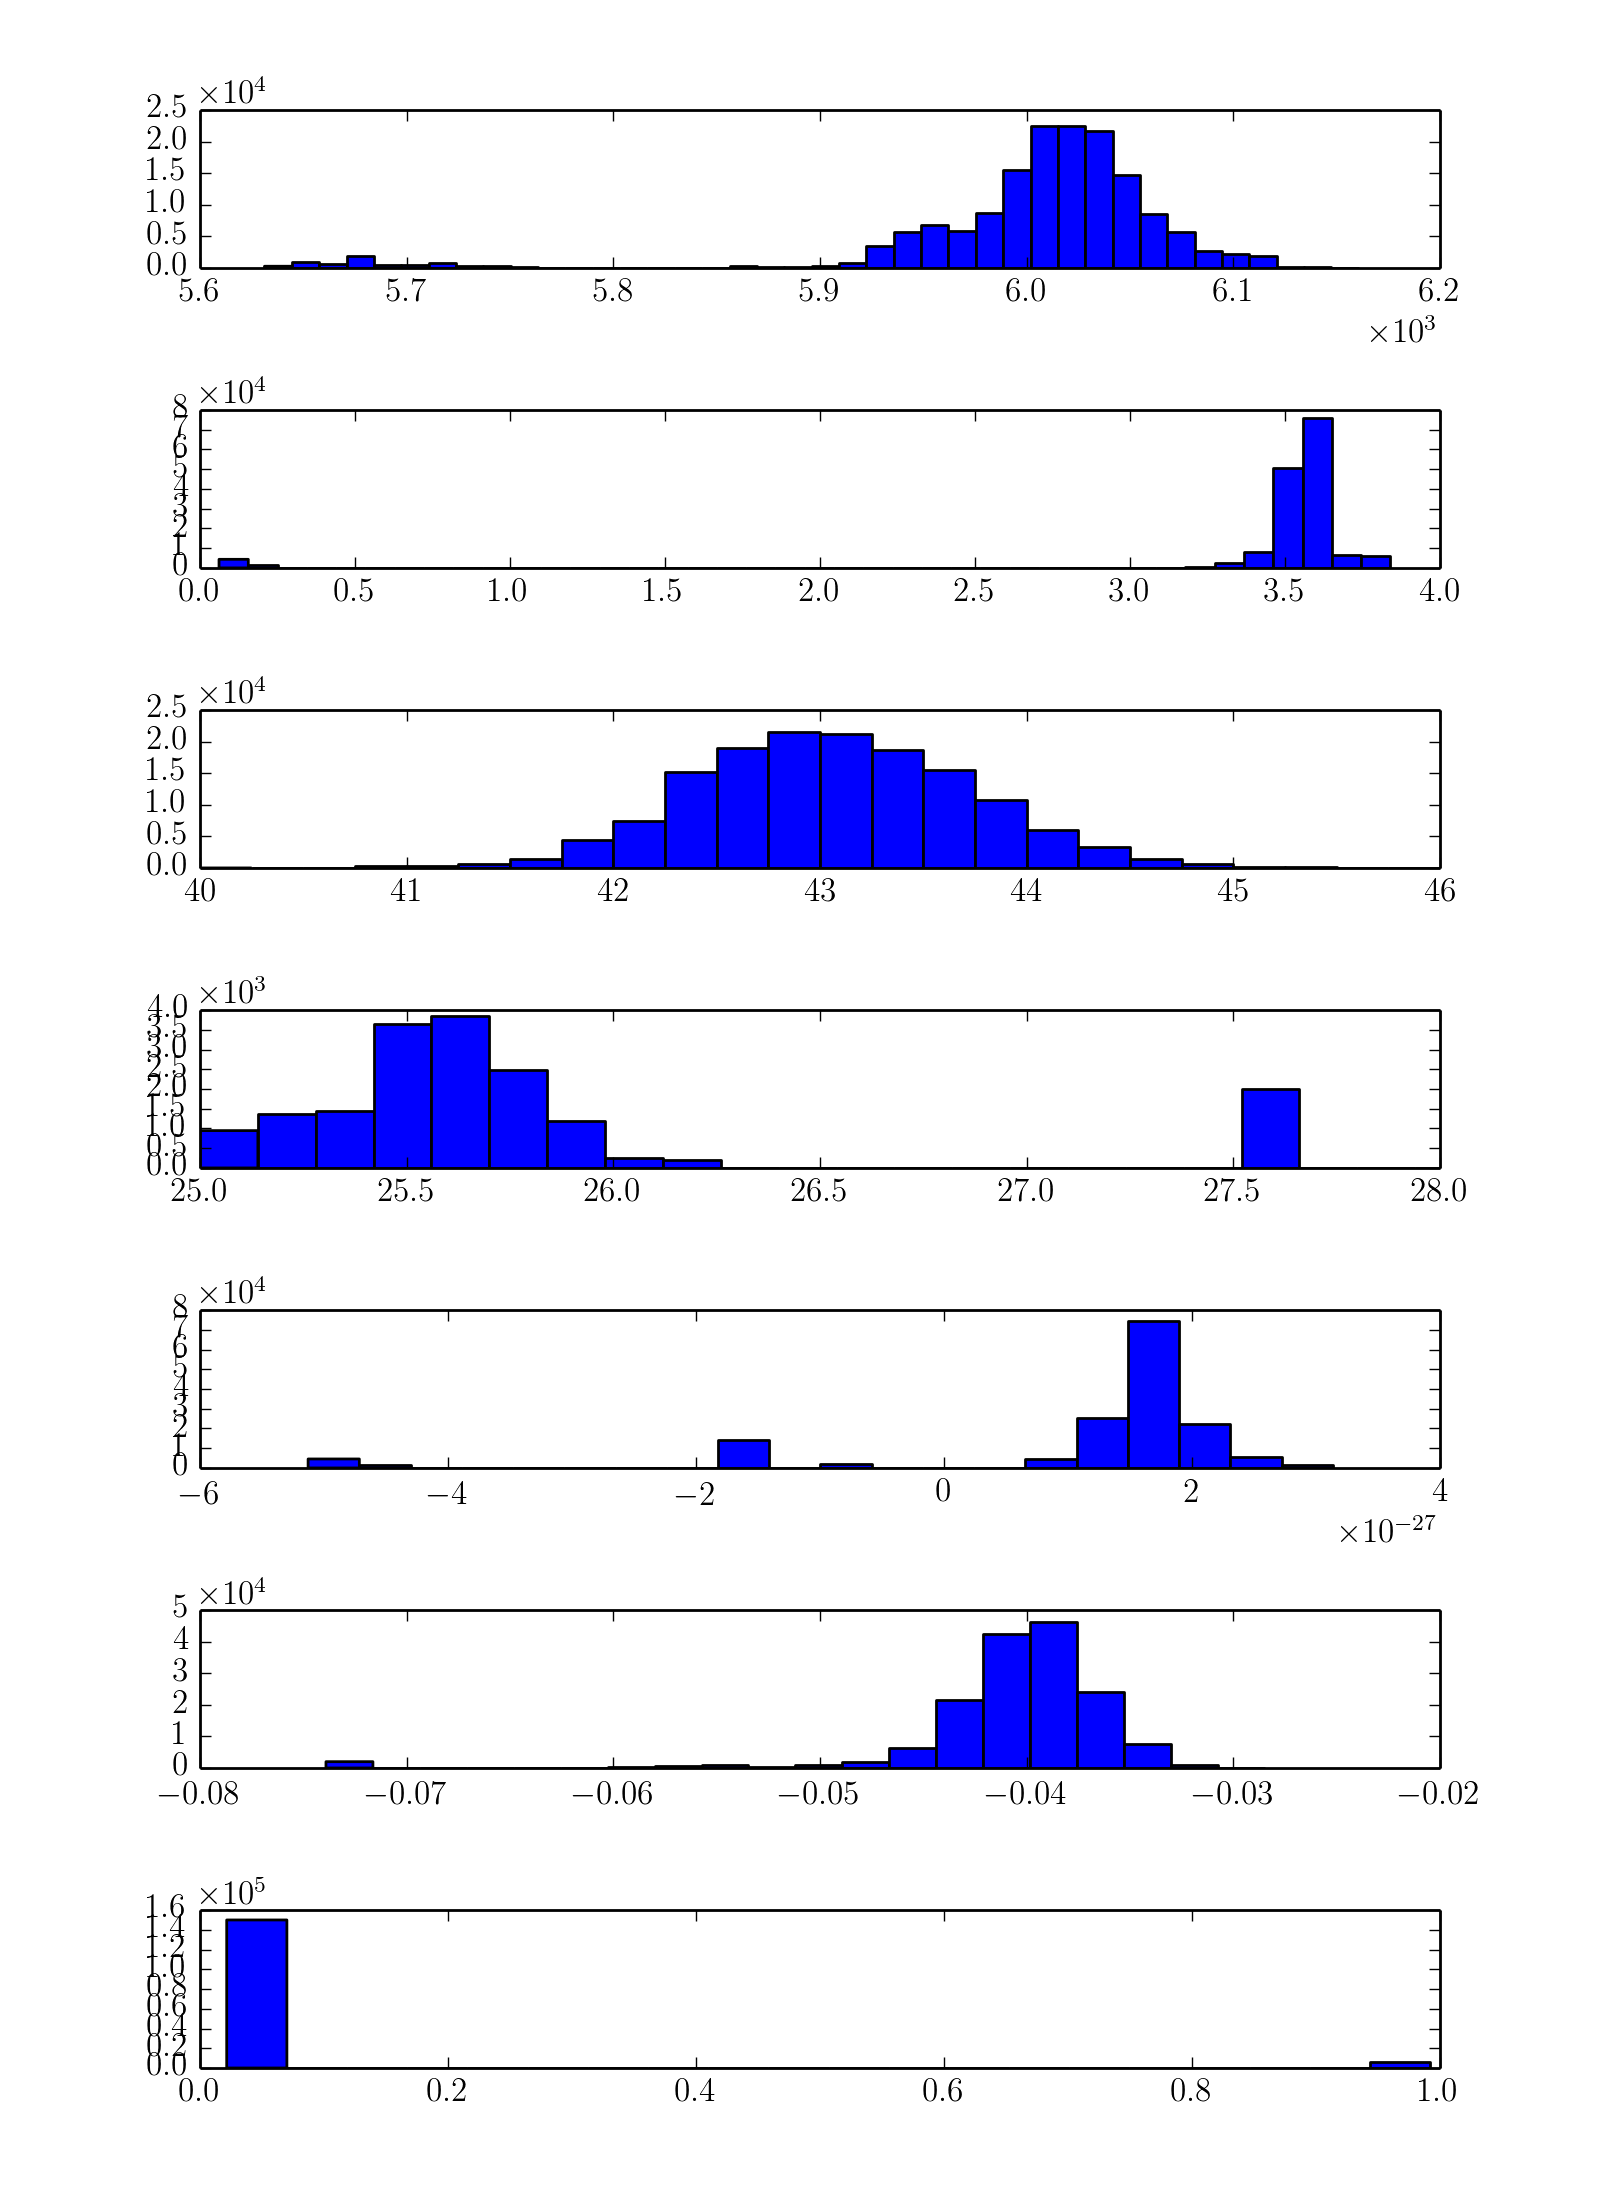
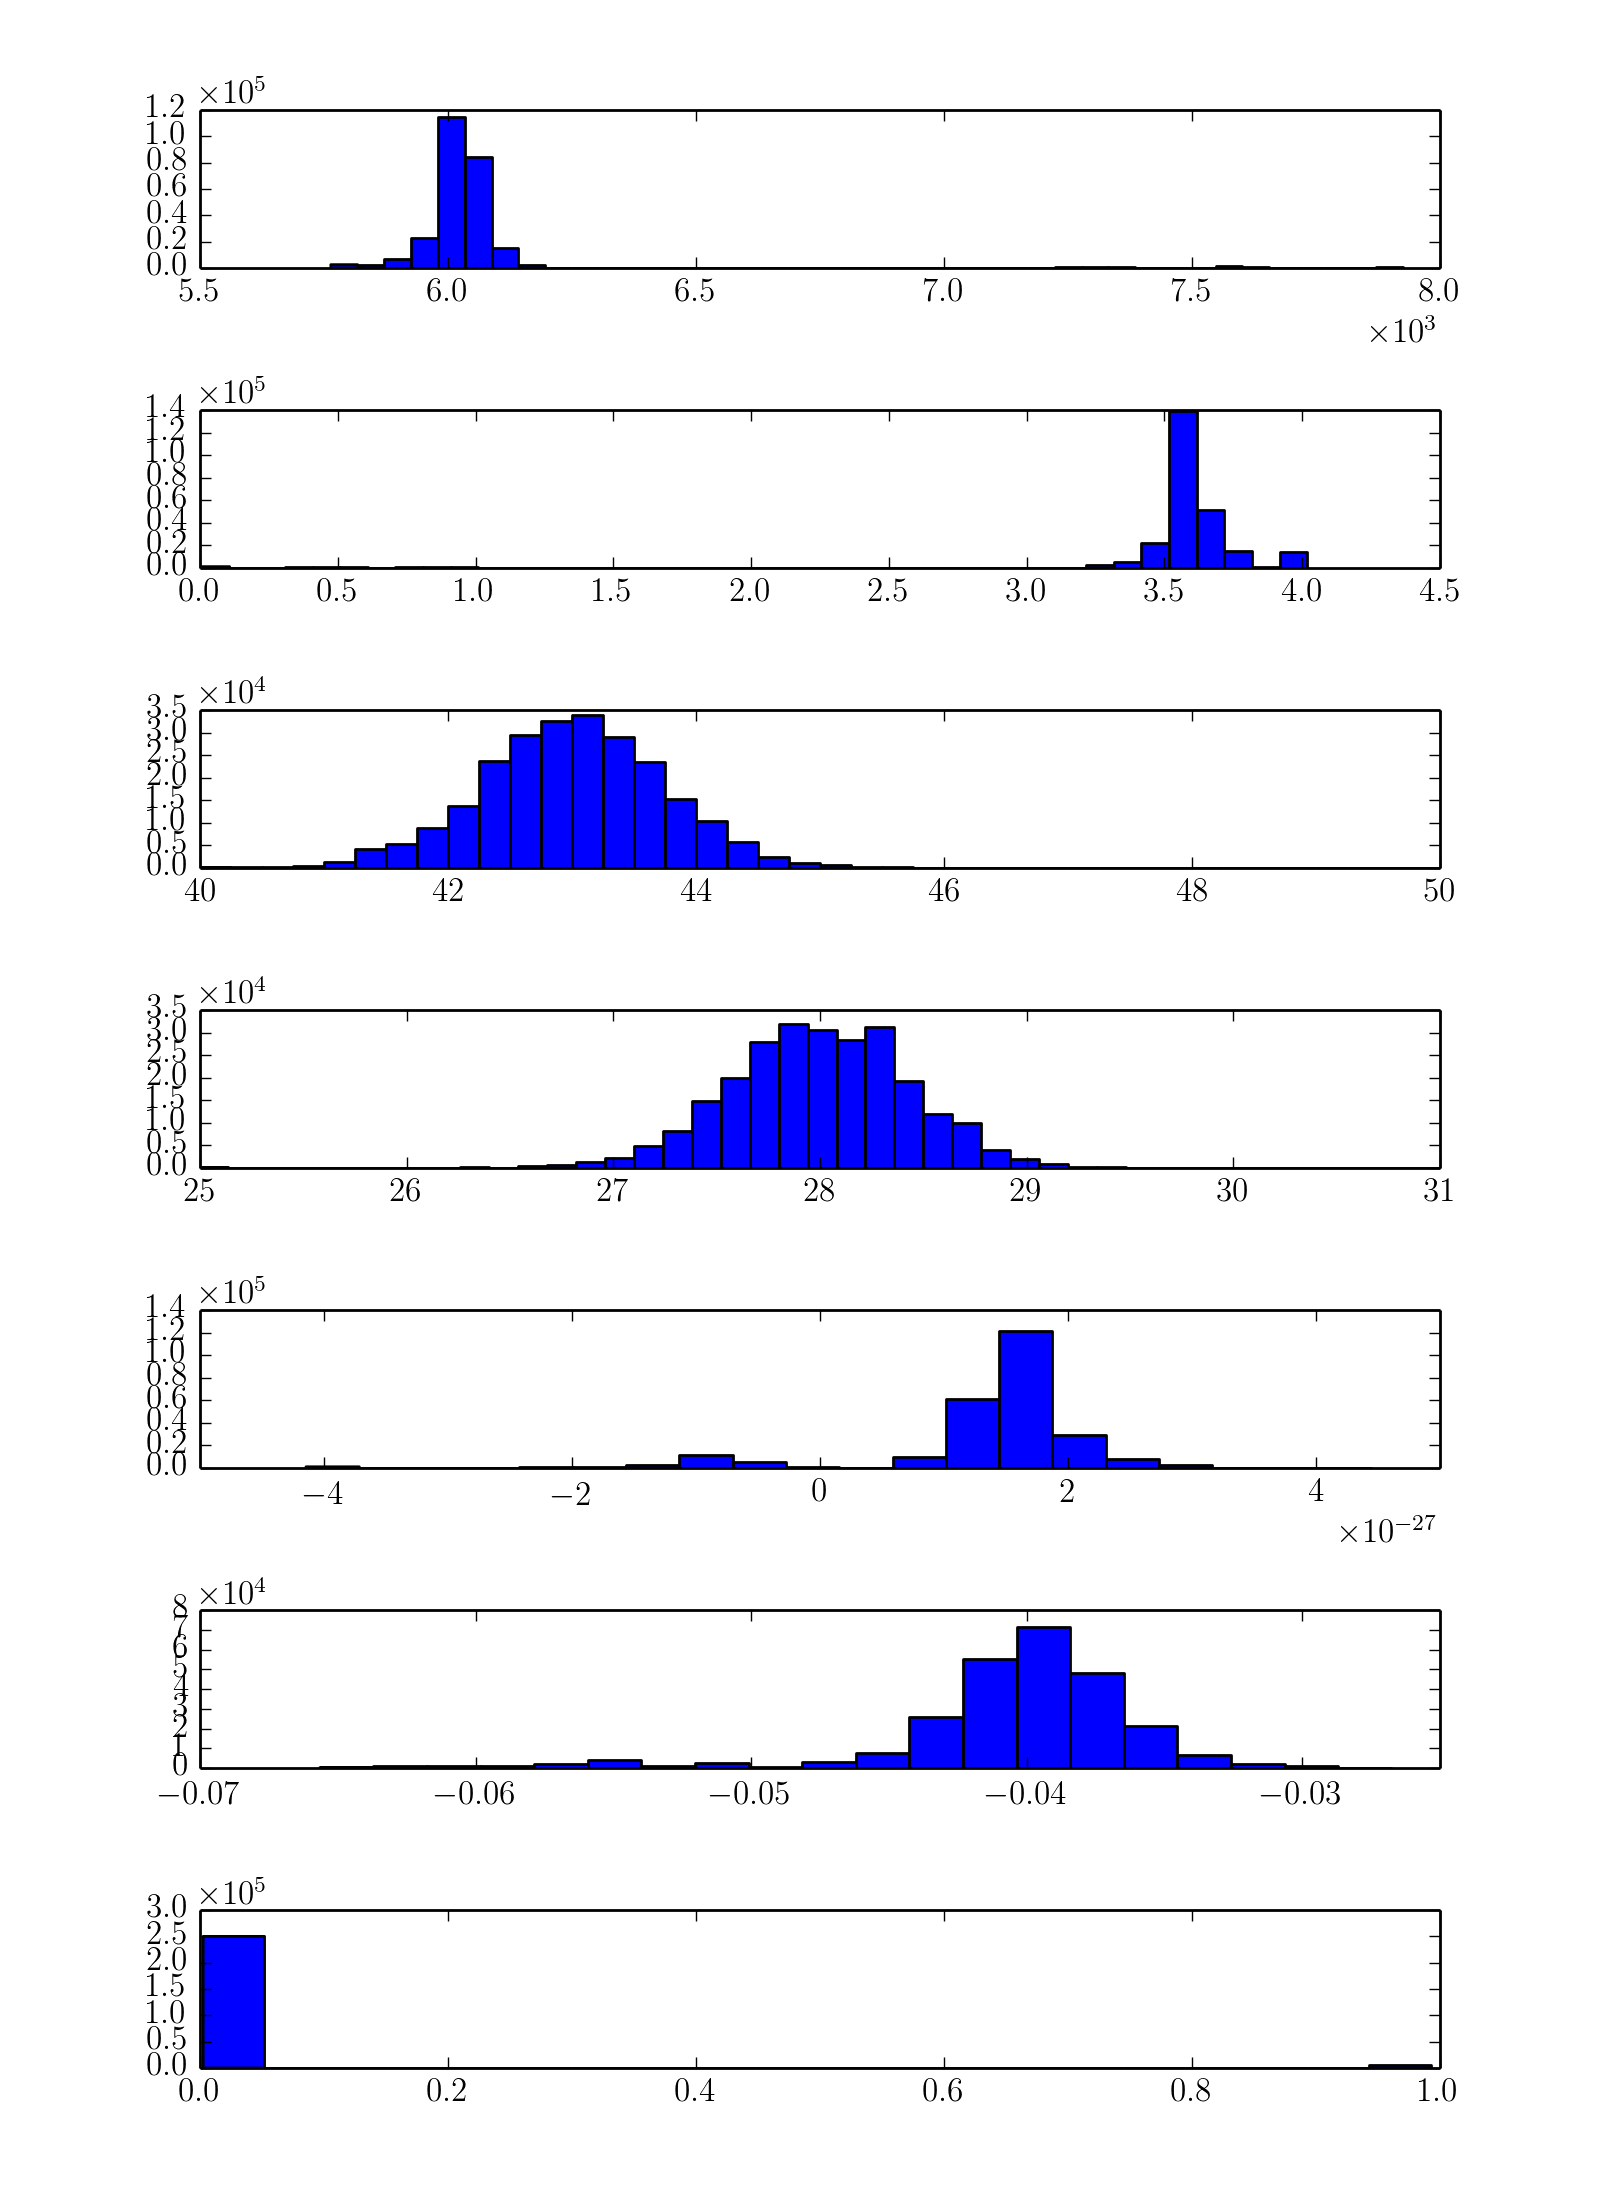
Narrowed walker start positions

diff --git a/plot_MCMC.py b/plot_MCMC.py
@@ -8,7 +8,7 @@ from matplotlib.ticker import FormatStrFormatter as FSF
 import acor
 
 #subdir = "order22/"
-subdir = "order22FFT/"
+subdir = "order23FFT/"
 
 chain = np.load("output/" + subdir + "chain.npy")
 nwalkers = chain.shape[0]
@@ -24,44 +24,6 @@ nparams = flatchain.shape[1]
 
 #Load normalized order spectrum
 #wls, fls = rechellenpflat("GWOri_cf")
-
-def plot_2d_all():
-    A_grid = np.load("A.npy")
-    B_grid = np.load("B.npy")
-    L = np.load("L.npy")
-    fig = plt.figure()
-    ax = fig.add_subplot(111)
-    CS = ax.contour(A_grid, B_grid, L)
-    ax.clabel(CS, inline=1, fontsize=10, fmt='%2.0f')
-    ax.plot(dataa['a'], dataa['b'], 'b', lw=0.2)
-    ax.plot(dataa['a'], dataa['b'], "bo", label="A")
-    ax.plot(datab['a'], datab['b'], 'g', lw=0.2)
-    ax.plot(datab['a'], datab['b'], "go", label="B")
-    ax.plot(datac['a'], datac['b'], 'r', lw=0.2)
-    ax.plot(datac['a'], datac['b'], "ro", label="C")
-    ax.set_xlabel("a")
-    ax.set_ylabel("b")
-    ax.legend(loc="lower right")
-    fig.savefig("2d_all.eps")
-
-
-def calc_mean_and_sigma(data):
-    burn_in = 10000
-    mean_m = np.mean(data["m"][burn_in:])
-    mean_b = np.mean(data["b"][burn_in:])
-    mean_P = np.mean(data["Pb"][burn_in:])
-    mean_Y = np.mean(data["Yb"][burn_in:])
-    mean_V = np.mean(data["Vb"][burn_in:])
-    sigma_m = np.std(data["m"][burn_in:])
-    sigma_b = np.std(data["b"][burn_in:])
-
-    print("m = %.3f +- %.3f" % (mean_m, sigma_m))
-    print("b = %.3f +- %.3f" % (mean_b, sigma_b))
-    print(mean_P, mean_Y, mean_V)
-    print("Acceptance Ratio %.2f" % (
-    len(np.where(data['accept'][burn_in:] == 'True')[0]) / len(data['accept'][burn_in:])), )
-    return (mean_m, mean_b)
-
 
 T_points = np.array(
     [2300, 2400, 2500, 2600, 2700, 2800, 2900, 3000, 3100, 3200, 3300, 3400, 3500, 3600, 3700, 3800, 4000, 4100, 4200,
@@ -332,7 +294,7 @@ def get_acor():
 
 
 print(len(flatchain))
-hist_param(flatchain[100000:])
+hist_param(flatchain)
 #plot_random_data()
 #joint_hist(2,3,bins=[20,40],range=((50,65),(28,31)))
 #joint_hist(0,4,range=((),()))

diff --git a/MCMC.py b/MCMC.py
@@ -46,16 +46,16 @@ def main():
         sampler = emcee.EnsembleSampler(nwalkers, ndim, lnprob, threads=config['threads'])
 
     # Choose an initial set of positions for the walkers, randomly distributed across a reasonable range of parameters.
-    temp = np.random.uniform(low=5500, high=6300, size=(nwalkers,))
-    logg = np.random.uniform(low=3.0, high=3.7, size=(nwalkers,))
+    temp = np.random.uniform(low=5800, high=6100, size=(nwalkers,))
+    logg = np.random.uniform(low=3.4, high=3.7, size=(nwalkers,))
     #M = np.random.uniform(low=0.1, high = 10, size=(nwalkers,))
     #R = np.random.uniform(low=0.1, high = 10, size=(nwalkers,))
-    vsini = np.random.uniform(low=35, high=55, size=(nwalkers,))
-    vz = np.random.uniform(low=27, high=29.5, size=(nwalkers,))
+    vsini = np.random.uniform(low=42, high=45, size=(nwalkers,))
+    vz = np.random.uniform(low=28, high=29., size=(nwalkers,))
     #Av = np.random.uniform(low=1, high = 5, size=(nwalkers,))
-    flux_factor = np.random.uniform(low=1.e-28, high=1.e-27, size=(nwalkers,))
+    flux_factor = np.random.uniform(low=1.e-27, high=2.e-27, size=(nwalkers,))
     #c0_21 = np.random.uniform(low=0.9, high = 1.1, size=(nwalkers,))
-    c1_21 = np.random.uniform(low=-0.1, high=0.1, size=(nwalkers,))
+    c1_21 = np.random.uniform(low=-0.05, high=-0.03, size=(nwalkers,))
     c2_21 = np.random.uniform(low=-0.1, high=0.1, size=(nwalkers,))
     #c0_22 = np.random.uniform(low=0.9, high = 1.1, size=(nwalkers,))
     #c1_22 = np.random.uniform(low=-0.1, high = 0.1, size=(nwalkers,))

diff --git a/cheb.py b/cheb.py
@@ -19,5 +19,35 @@ def test_chebyshev():
     plt.show()
 
 
-test_chebyshev()
+#test_chebyshev()
+
+
+xs = np.arange(2299)
+T0 = np.ones_like(xs)
+
+Ch1 = Ch([0,1], domain=[0,2298])
+T1 = Ch1(xs)
+
+Ch2 = Ch([0,0,1],domain=[0,2298])
+T2 = Ch2(xs)
+
+Ch3 = Ch([0,0,0,1],domain=[0,2298])
+T3 = Ch3(xs)
+
+T = np.array([T0,T1,T2,T3]) #multiply this by the flux and sigma vector for each order
+TT = np.einsum("in,jn->ijn",T,T)
+
+wls = np.load("GWOri_cf_wls.npy")[22]
+fls = np.load("GWOri_cf_fls.npy")[22]
+
+sigmas = np.load("sigmas.npy")[22] #has shape (51, 2299), a sigma array for each order
+
+all = TT*wls*fls
+A = np.sum(all,axis=-1)
+
+#plt.plot(xs,T0)
+#plt.plot(xs,T1)
+#plt.plot(xs,T2)
+#plt.plot(xs,T3)
+#plt.show()
 
